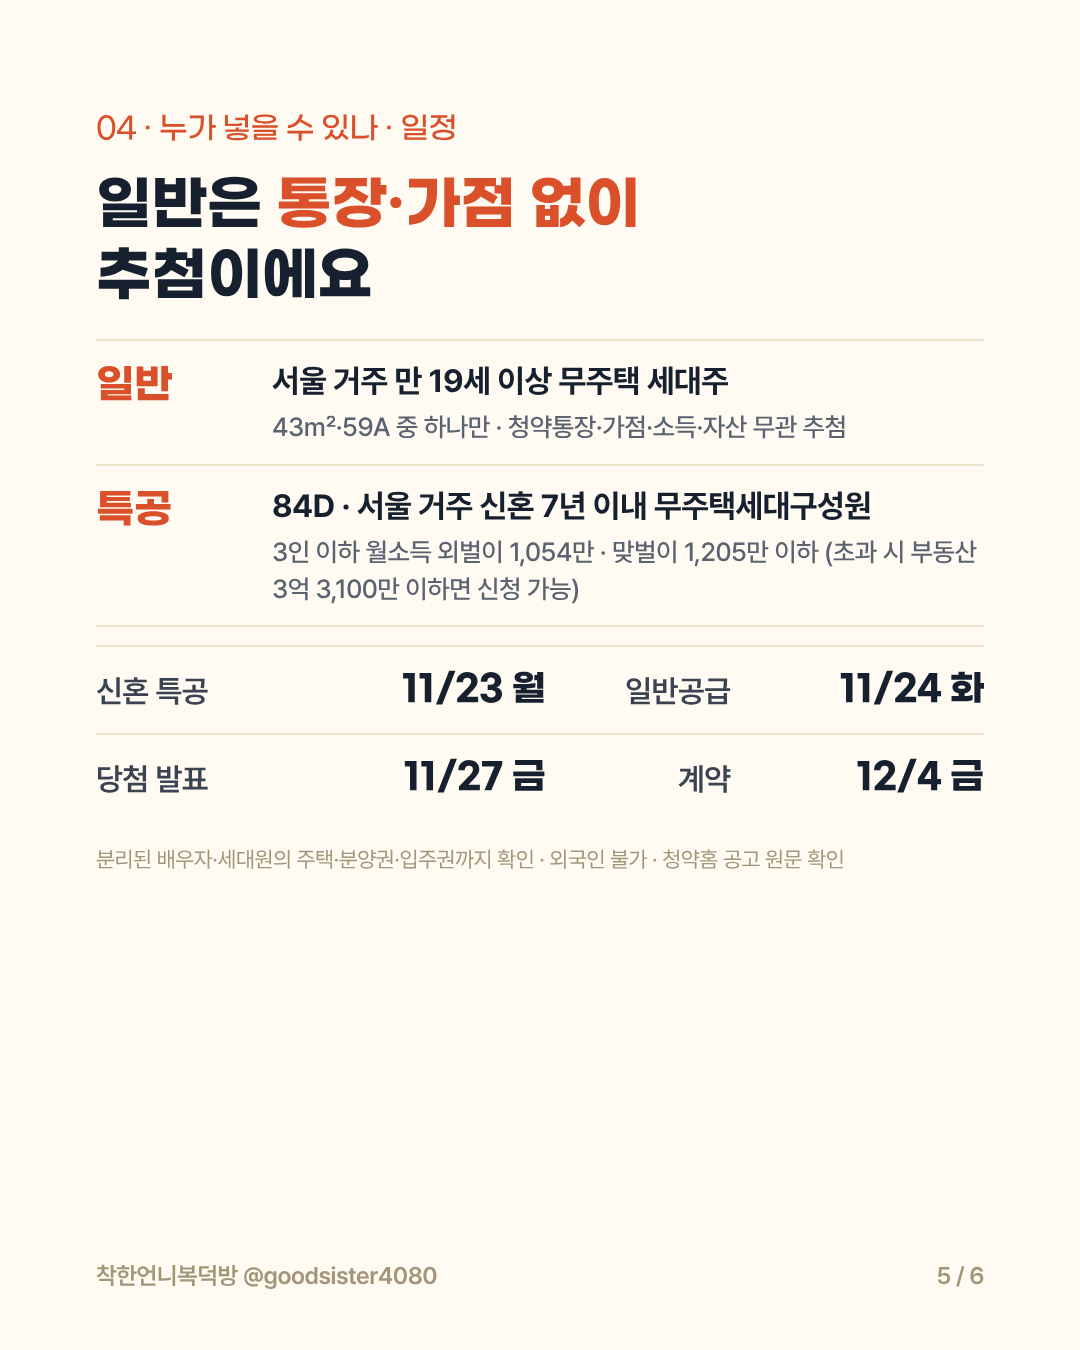
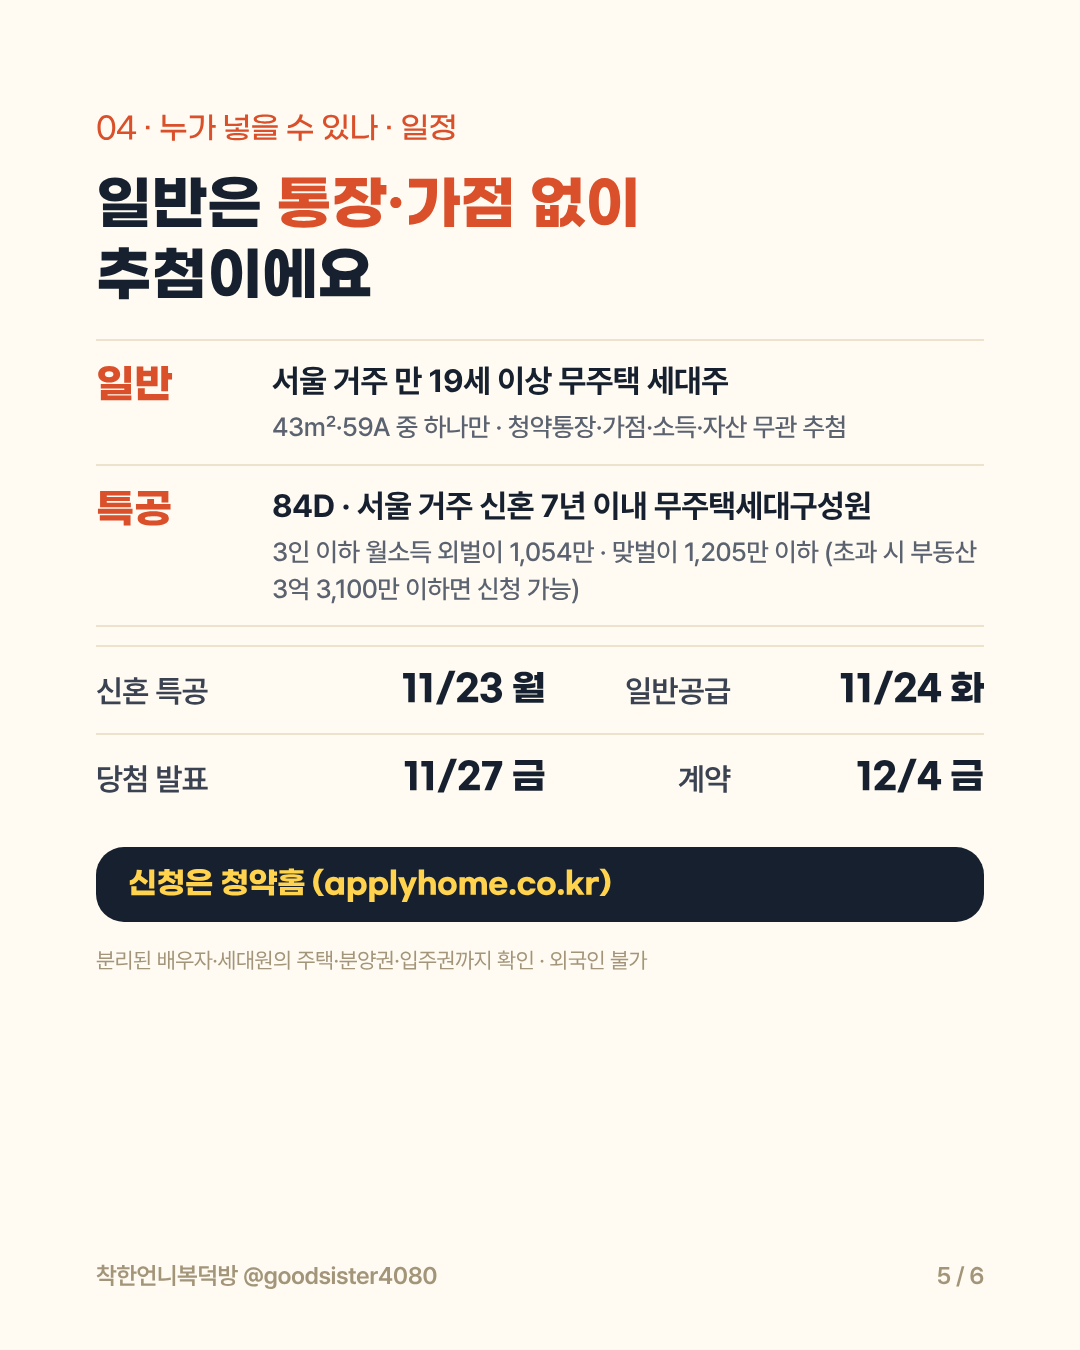
Jamsil card: apply-at-applyhome note
Claude-Session: https://claude.ai/code/session_01TVq9M4GpnT2XRseWGn9WC1

Changed region(s): [[0.0917, 0.6222, 0.9167, 0.7156]]

diff --git a/instagram/cards/kit.html b/instagram/cards/kit.html
@@ -24,6 +24,7 @@ code{background:#FFD84D;padding:2px 8px;border-radius:6px}a.back{font-size:14px}
 
 📅 신혼 특공 11/23(월) · 일반 11/24(화)
 📅 발표 11/27(금) · 계약 12/4(금)
+👉 신청은 청약홈에서
 
 일반공급은 서울 거주 무주택 세대주,
 청약통장·가점·소득·자산 상관없이 추첨이에요.
@@ -42,7 +43,7 @@ code{background:#FFD84D;padding:2px 8px;border-radius:6px}a.back{font-size:14px}
 살이 되고 돈이 되는
 부동산 정보, 계속 드릴게요 💛
 
-※ 자격·대출 한도는 청약홈 공고 원문과 은행 상담으로 꼭 확인하세요.
+※ 대출 한도는 개인별로 달라서 은행 상담으로 꼭 확인하세요.
 
 #잠실래미안아이파크 #잠실 #재공급 #줍줍 #무순위 #송파 #신혼특공 #청약정보 #착한언니복덕방</pre></div><div class="box"><div class="hd"><b>② 고정 댓글</b><button onclick="cp(this)">복사</button></div><pre>📌 신혼 특공 11/23 · 일반 11/24 · 발표 11/27!
 

diff --git a/instagram/cards/2026-11-17-jamsil/README.md b/instagram/cards/2026-11-17-jamsil/README.md
@@ -1,7 +1,7 @@
 # 🚨 잠실권 · 잠실 래미안아이파크 계약 취소 3채 재공급
 
 **업로드**: 승인 대기 · 6장 · DM 없음 (저장·공유만)
-**자료**: 청약홈 입주자모집공고(2026.11.17) 정리본(대표님 제공) — 동호·공급금액·옵션·계약금 30%·잔금 30일·일정·자격 / 뉴스1 84D 18억 5,607만 일치 확인 / 국토부 실거래(입주권 43.2억 6.30·30층, 59㎡ 32.7억, 43㎡ 23.8억, 파크리오 84㎡ 28.6~30.3억 10월)
+**자료**: 청약홈 입주자모집공고(2026.11.17, 대표님 확인) — 동호·공급금액·옵션·계약금 30%·잔금 30일·일정·자격 / 뉴스1 84D 18억 5,607만 일치 확인 / 국토부 실거래(입주권 43.2억 6.30·30층, 59㎡ 32.7억, 43㎡ 23.8억, 파크리오 84㎡ 28.6~30.3억 10월)
 **주의**: 대출 최대(43㎡ 4억, 59·84 2억)는 2025.10.15 대책의 시가 구간 한도 기준 해석 → 개인별 은행 확인 문구 포함
 
 ## 캡션
@@ -20,6 +20,7 @@
 
 📅 신혼 특공 11/23(월) · 일반 11/24(화)
 📅 발표 11/27(금) · 계약 12/4(금)
+👉 신청은 청약홈에서
 
 일반공급은 서울 거주 무주택 세대주,
 청약통장·가점·소득·자산 상관없이 추첨이에요.
@@ -38,7 +39,7 @@
 살이 되고 돈이 되는
 부동산 정보, 계속 드릴게요 💛
 
-※ 자격·대출 한도는 청약홈 공고 원문과 은행 상담으로 꼭 확인하세요.
+※ 대출 한도는 개인별로 달라서 은행 상담으로 꼭 확인하세요.
 
 #잠실래미안아이파크 #잠실 #재공급 #줍줍 #무순위 #송파 #신혼특공 #청약정보 #착한언니복덕방
 ```
